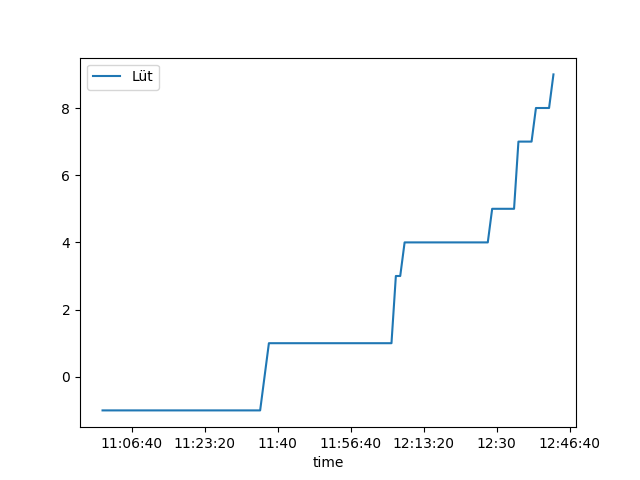
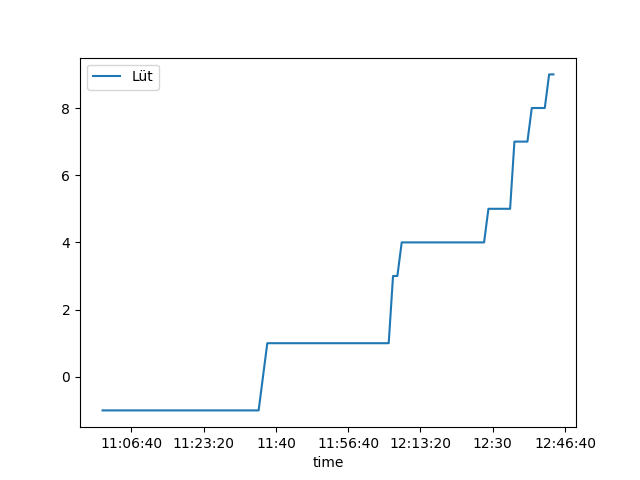
auto: new data

diff --git a/README.md b/README.md
@@ -1,4 +1,4 @@
-### Jitz grad: 9/33 (Zysti, 2021-12-28 12:43:00
+### Jitz grad: 9/33 (Zysti, 2021-12-28 12:44:00
 
 ### Hütige Vrlouf:
 ![Graph](Today.png)
